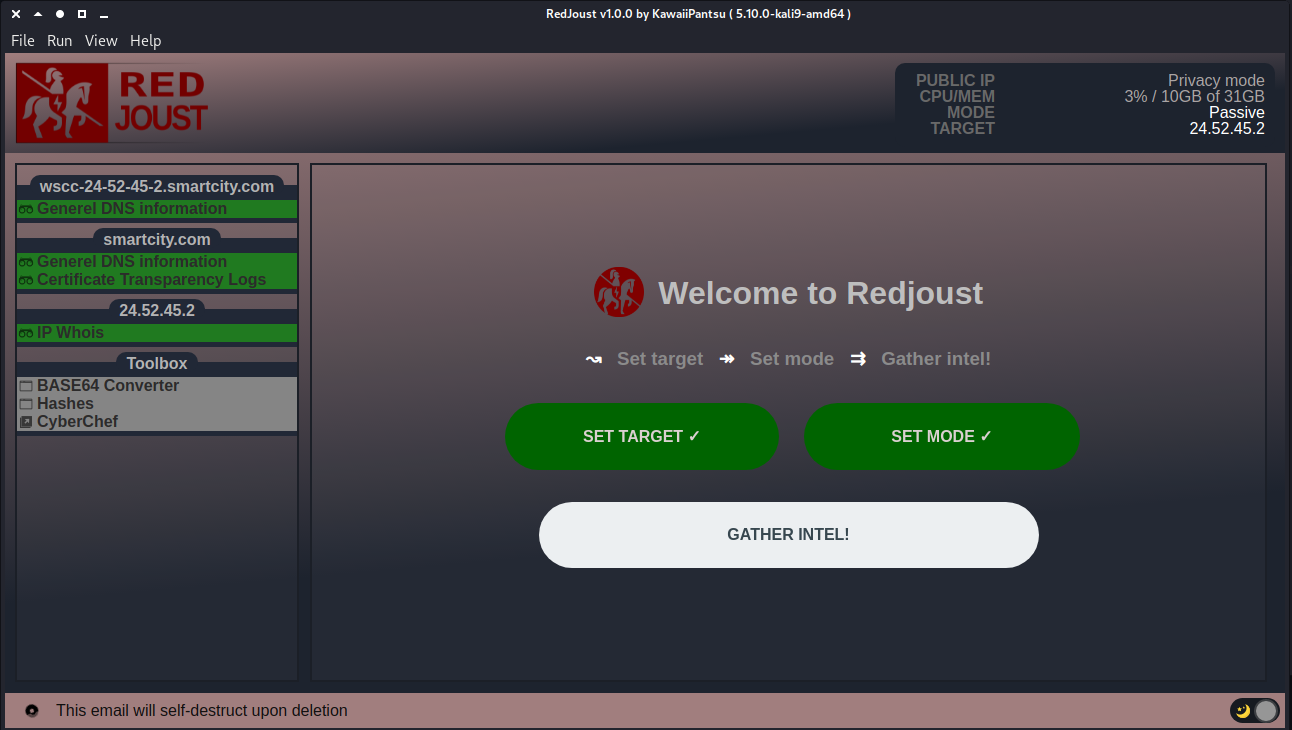
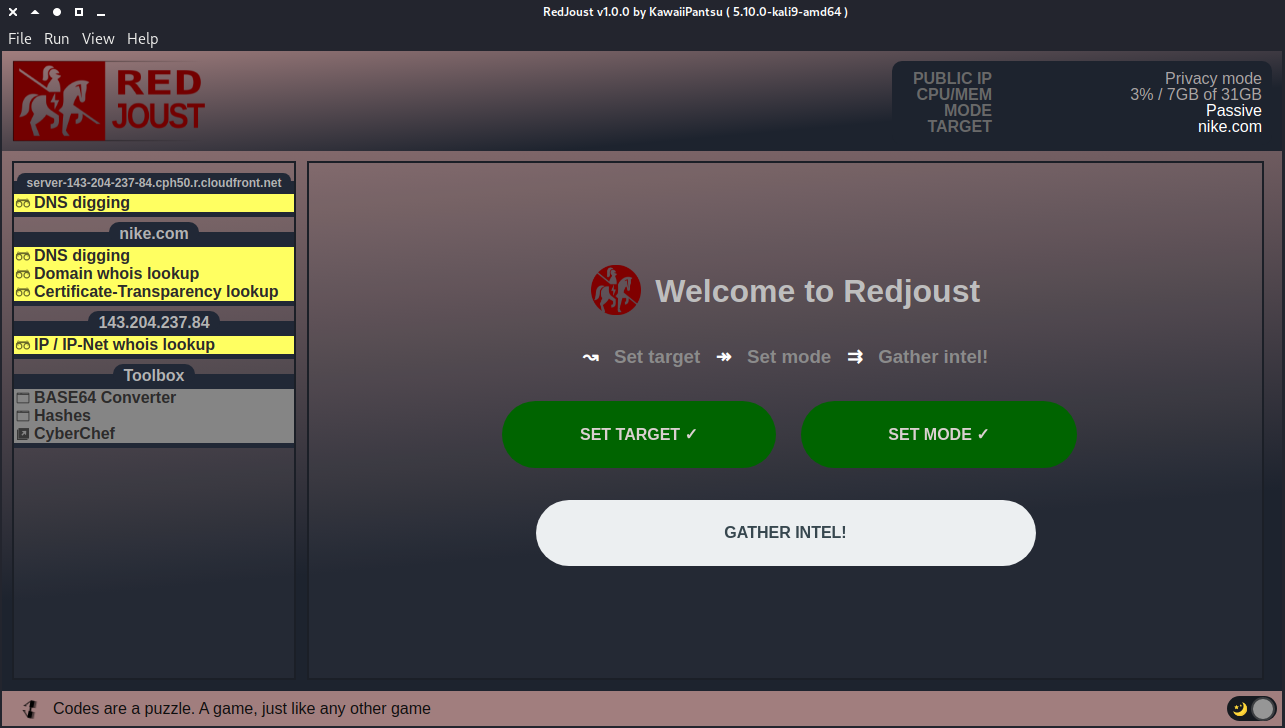
New resize and target logic

diff --git a/preload.js b/preload.js
@@ -973,6 +973,7 @@ function parseTarget(target) {
         const hostname = hostnames[0]
         $("#haveHostname").show();
         $("#targetHostname").text(hostname).html();
+        resizeFontToFit("#targetHostname");
 
         var parts = hostname.split('.').reverse();
         if (parts != null && parts.length > 1) {
@@ -982,6 +983,7 @@ function parseTarget(target) {
           if ( tld ) domain = parts[2] + '.' + parts[1] + '.' + parts[0];
           $("#haveDomainname").show();
           $("#targetDomainname").text(domain).html();
+          resizeFontToFit("#targetDomainname");
         }
       }
     });
@@ -989,6 +991,8 @@ function parseTarget(target) {
     // TARGET IS HOSTNAME
     $("#haveHostname").show();
     $("#targetHostname").text(target).html();
+    resizeFontToFit("#targetHostname");
+
     // Parse for domain name
     var parts = target.split('.').reverse();
     if (parts != null && parts.length > 1) {
@@ -998,6 +1002,7 @@ function parseTarget(target) {
       if ( tld ) domain = parts[2] + '.' + parts[1] + '.' + parts[0];
       $("#haveDomainname").show();
       $("#targetDomainname").text(domain).html();
+      resizeFontToFit("#targetDomainname");
     }
 
     // A bit backwards !! BUT
@@ -1043,16 +1048,21 @@ function parseTarget(target) {
 function resizeFontToFit( myElement ) {
   var me = $(myElement)
   if ( me ) {
+
+    // Set default
+    me.css("fontSize", 16); // Sooo static :()
+
     var resizeMore = true;
-    var resizeMin = 8;
+    var resizeMin = 6;
     var resizeMax = 20;
-    var widthMax = me.width()-20; // The extra 20 is to also allow padding
+    //var widthMax = me.width()-20; // The extra 20 is to also allow padding
+    var widthMax = 280; // Uhmm, dont know this works! Above, seems cooler ...
     while (resizeMore) {
       var cssSize = parseInt(me.css('font-size'))
       var curWidth = me.prop('scrollWidth');
       if ( curWidth > widthMax ) {
         // We are to large, let's skrink by 1px!!
-        if (cssSize >= resizeMin) cssSize--;
+        cssSize--;
         me.css("fontSize", cssSize);
       } else {
         // Should we do something when we are not default 16px ?!?!

diff --git a/README.md b/README.md
@@ -106,6 +106,11 @@ I have included 2 screenshots, i will update them regularly :)
 - IP address WHOIS now supports own specific whois server based on ip-net
 - Fixed FQDN bug where etc www.amazon.co.uk would think the domain was co.uk :) (classic!)
 - Up to date whois server list in json format (updated via a php script by me so semi auto)
+- hostname / domainname / ip menu font-size now autoscales to fit!
+- New target logic
+  - if TARGET = IP ( Set IP + Reverse IP and set Hostname + Parse Hostname for Domainname and set )
+  - if TARGET = HOSTNAME ( Set Hostname + Parse Hostname for Domainname and set + Resolve IP for Hostname and set )
+  - if TARGET = DOMAINNAME ( Set Domainname + Resolve IP for Domainname and set + Reverse IP for Hostname and set )
 
 ## TODO list (what i want to get done short term)
 
